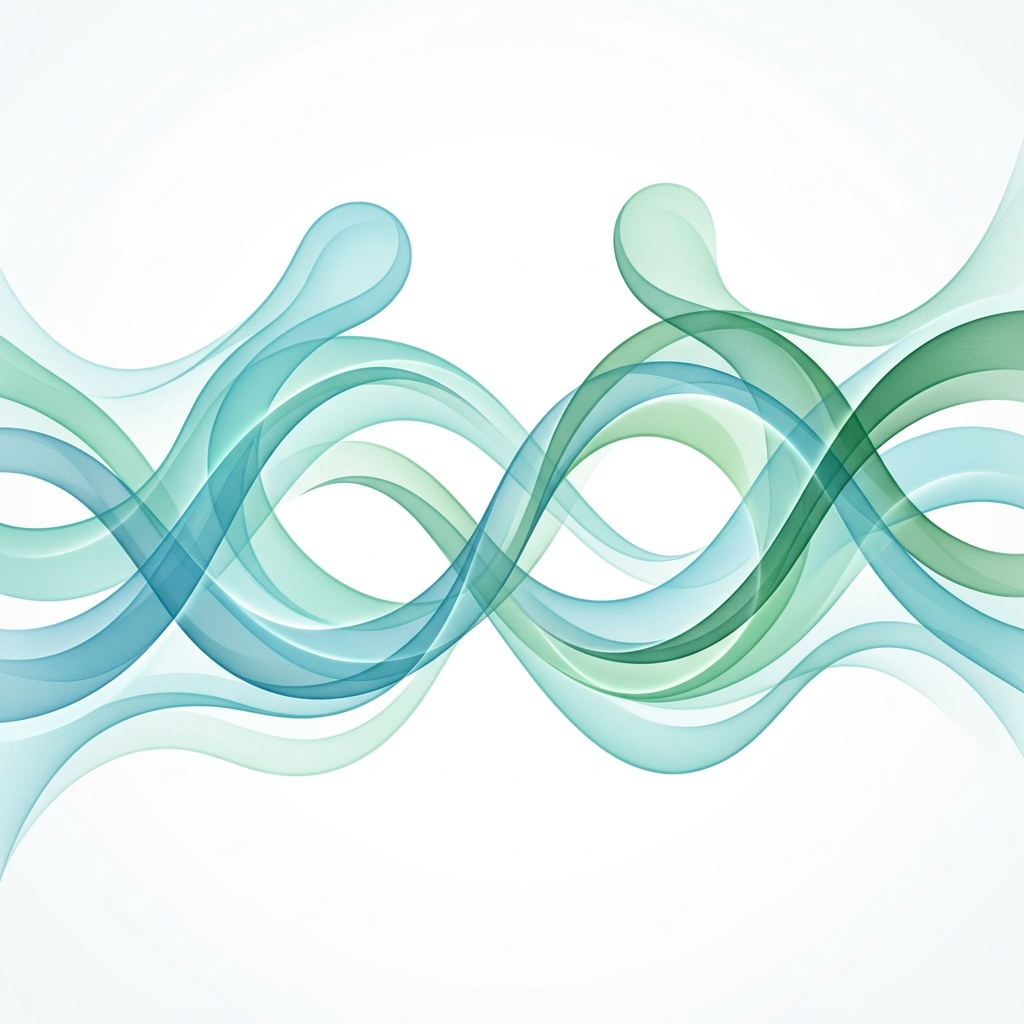
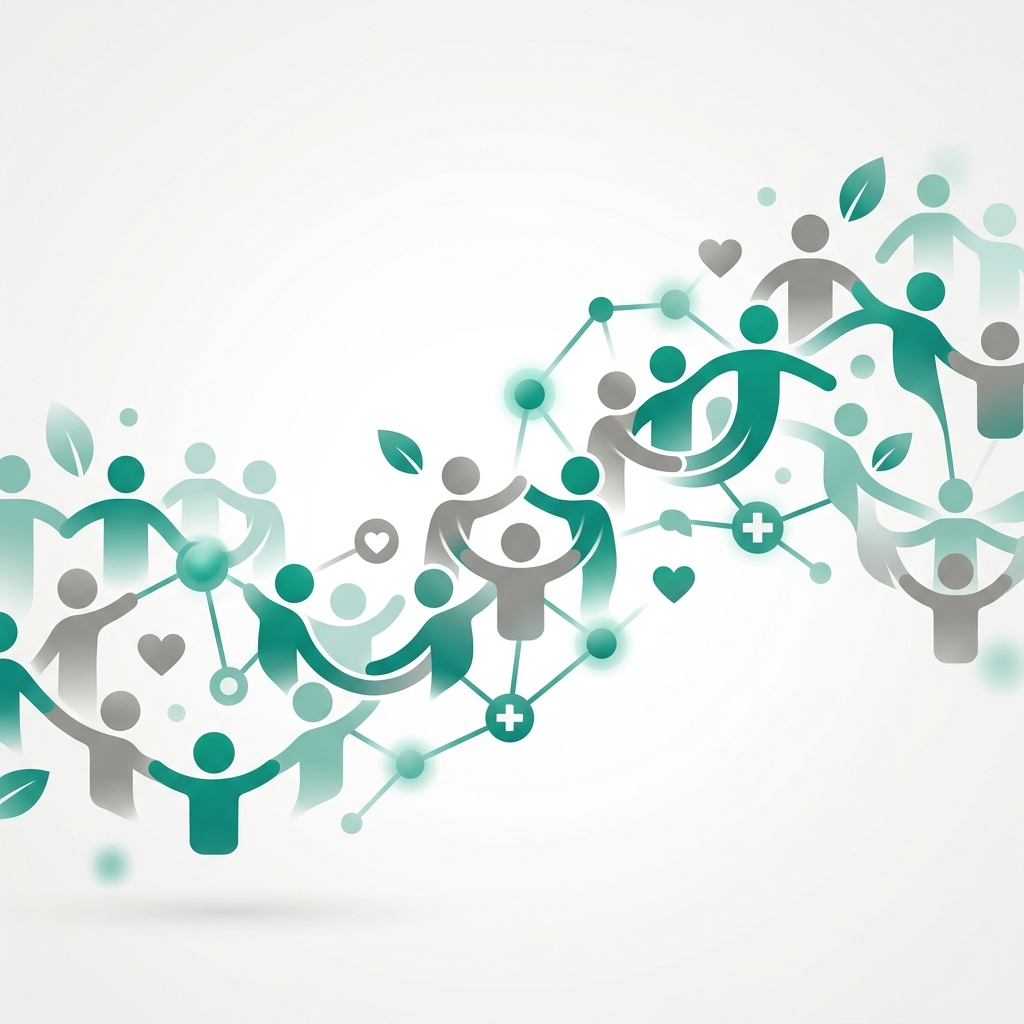
Update hero to ultra-wide image with clean center for better legibility

diff --git a/index.html b/index.html
@@ -31,7 +31,7 @@
                     <li><a href="#recursos">Recursos</a></li>
                     <li><a href="#contacto">Contacto</a></li>
                 </ul>
-                <a href="#contacto" class="btn btn-primary">Hacerse Socio</a>
+                <a href="#contacto" class="btn btn-primary">Hazte Socio</a>
             </nav>
         </div>
     </header>
@@ -86,10 +86,12 @@
             <div class="container">
                 <div class="section-title">
                     <h2>Síntomas Frecuentes</h2>
+                    <div class="divider"></div>
+                    <br>
+
                     <p>El COVID Persistente se manifiesta de múltiples formas, afectando diversos sistemas del cuerpo.
                     </p>
                     <p>Se han descrito más de 200 síntomas relacionados con la enfermedad.</p>
-                    <div class="divider"></div>
                 </div>
                 <div class="grid">
                     <div class="card">
@@ -150,6 +152,8 @@
             <p>&copy; 2026 ACOPERCYL - Asociación de COVID Persistente de Castilla y León</p>
             <p style="font-size: 0.8rem; color: var(--text-muted); margin-top: 10px;">Diseño accesible y compromiso
                 social.</p>
+
+                [email redacted]
         </div>
     </footer>
 

diff --git a/assets/css/index.css b/assets/css/index.css
@@ -123,11 +123,13 @@ nav {
 
 /* Hero Section */
 .hero {
+    width: 100%;
     padding: 180px 0 100px;
-    background: linear-gradient(rgba(248, 250, 252, 0.8), rgba(248, 250, 252, 0.8)), 
+    background: linear-gradient(rgba(226, 226, 226, 0.6), rgba(226, 226, 226, 0.6)), 
                 url('../img/hero-bg.png');
     background-size: cover;
     background-position: center;
+    background-repeat: no-repeat;
     text-align: center;
 }
 